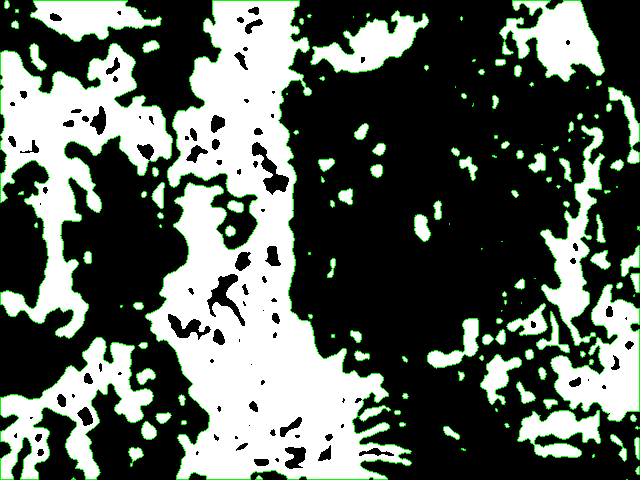
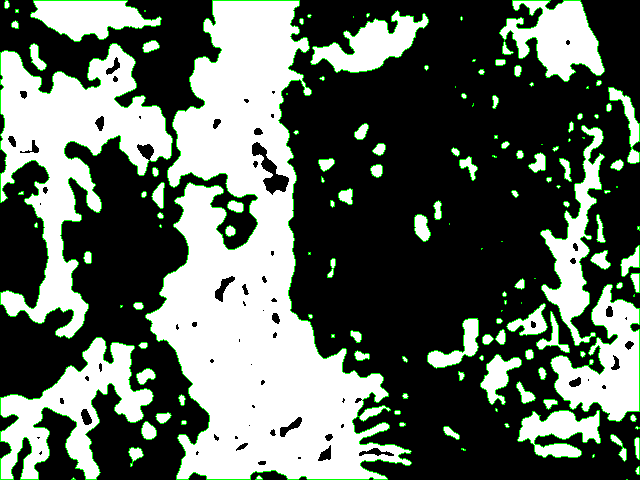
Update

diff --git a/Código/AreaKMeans.py b/Código/AreaKMeans.py
@@ -23,14 +23,14 @@ threshOp2 = cv2.threshold(blur2, 100, 255, cv2.THRESH_BINARY)[1]
 
 imageGrayRGB1 = cv2.cvtColor(src1,cv2.COLOR_RGB2GRAY)
 ret1, thresh1 = cv2.threshold(imageGrayRGB1, 127, 255, 0)
-contours1, hierarchy1 = cv2.findContours(thresh1, cv2.RETR_EXTERNAL, cv2.CHAIN_APPROX_SIMPLE)
+contours1, hierarchy1 = cv2.findContours(thresh1, cv2.RETR_LIST, cv2.CHAIN_APPROX_SIMPLE)
 imageRGBThreshColor1 = cv2.cvtColor(imageGrayRGB1,cv2.COLOR_GRAY2RGB)
 cv2.drawContours(imageRGBThreshColor1, contours1, -1, (255,255,255), 3)
 # cv2.imshow("Filled Cluster 1", imageRGBThreshColor1)
 
 imageGrayRGB2 = cv2.cvtColor(src2,cv2.COLOR_RGB2GRAY)
 ret2, thresh2 = cv2.threshold(imageGrayRGB2, 127, 255, 0)
-contours2, hierarchy2 = cv2.findContours(thresh2, cv2.RETR_EXTERNAL, cv2.CHAIN_APPROX_SIMPLE)
+contours2, hierarchy2 = cv2.findContours(thresh2, cv2.RETR_LIST, cv2.CHAIN_APPROX_SIMPLE)
 imageRGBThreshColor2 = cv2.cvtColor(imageGrayRGB2,cv2.COLOR_GRAY2RGB)
 cv2.drawContours(imageRGBThreshColor2, contours2, -1, (255,255,255), 3)
 # cv2.imshow("Filled Cluster 2", imageRGBThreshColor2)
@@ -43,6 +43,7 @@ contours1, hierarchy1 = cv2.findContours(threshOpGray1, cv2.RETR_EXTERNAL, cv2.C
 ImageFinal1 = threshOp1.copy()
 cv2.drawContours(threshOp1, contours1, -1, (0,255,0), 1)
 # cv2.imshow("Contours Cluster 1", threshOp1)
+print("Area for cluster 1")
 for contour in contours1:
     print(cv2.contourArea(contour))
 # cv2.waitKey(0)
@@ -75,6 +76,7 @@ contours2, hierarchy2 = cv2.findContours(threshOpGray2, cv2.RETR_EXTERNAL, cv2.C
 ImageFinal2 = threshOp2.copy()
 cv2.drawContours(threshOp2, contours2, -1, (0,255,0), 1)
 # cv2.imshow("Contours Cluster 2", threshOp2)
+print("Area for cluster 2")
 for contour in contours2:
     print(cv2.contourArea(contour))
 # cv2.waitKey(0)
